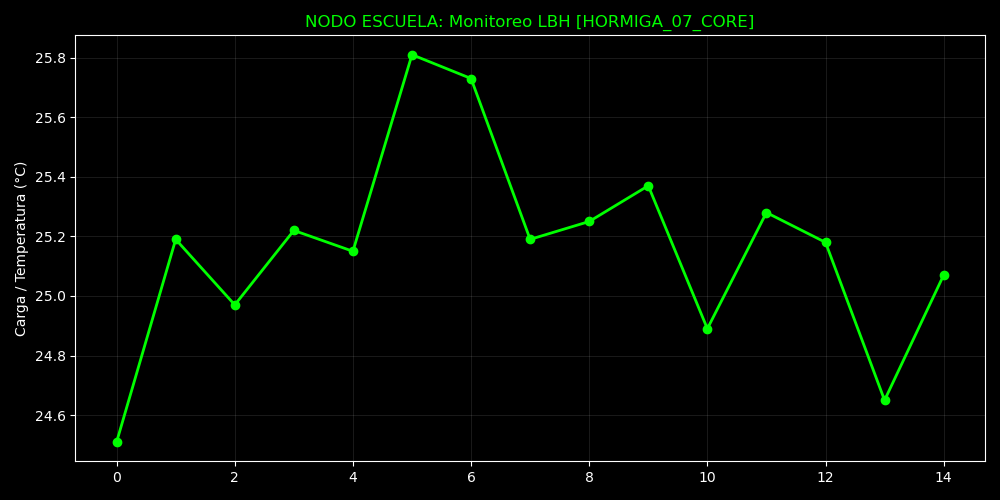
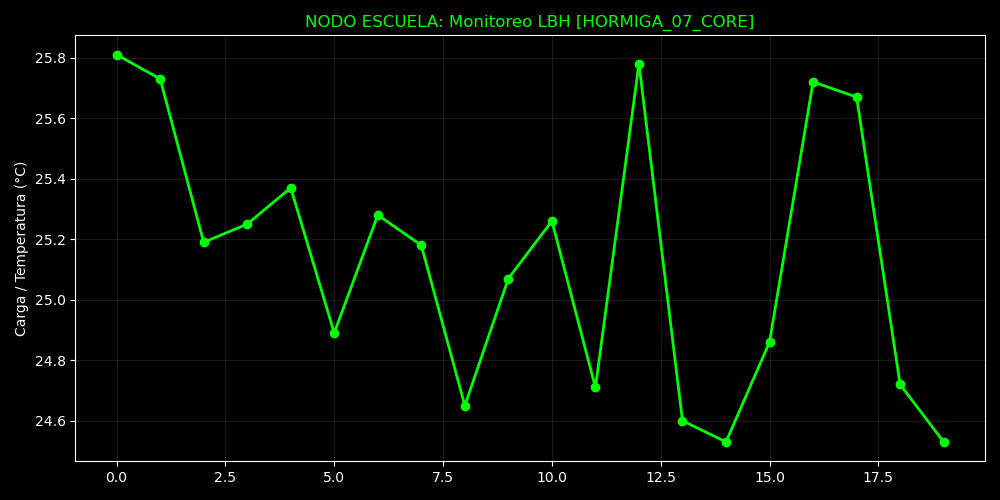
📈 Gráfico Vivo: HORMIGA_07_CORE [2025-12-28 22:11:56]

diff --git a/README.md b/README.md
@@ -7,7 +7,7 @@
 ![Rendimiento del Enjambre](REPORTE_RENDIMIENTO_HORMIGAS.png)
 
 > **Estado:** Operativo validado por protocolo LBH.
-> **Última Actualización: 2025-12-28 22:10:48 CST (LBH-Validated)
+> **Última Actualización: 2025-12-28 22:11:56 CST (LBH-Validated)
 
 ---
 © 2025 HormigasAIS - San Miguel, El Salvador.
